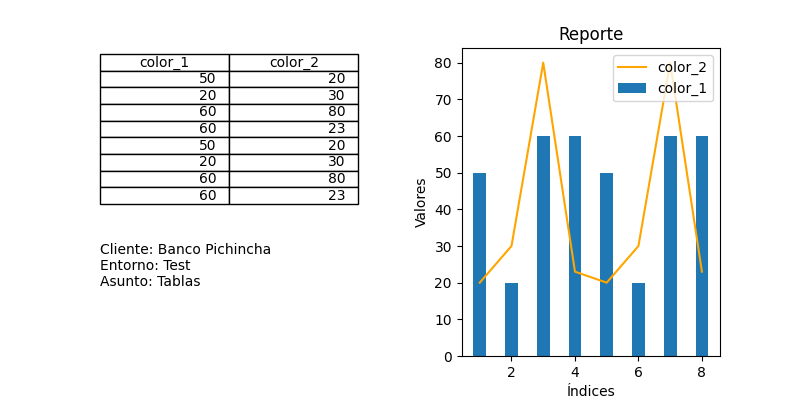
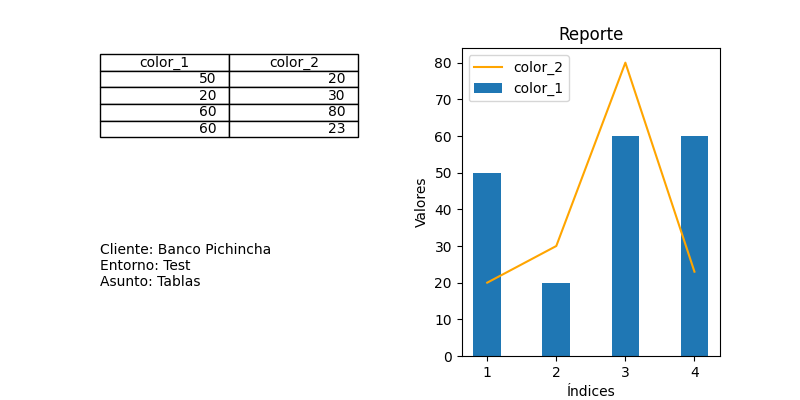
Proyecto finalizado sin estilos

Changed region(s): [[0.5938, 0.15, 0.9062, 0.96], [0.125, 0.33, 0.4688, 0.54], [0.8438, 0.93, 0.875, 0.96]]

diff --git a/templates/index.html b/templates/index.html
@@ -57,5 +57,18 @@
     <img src="/mi_grafico">
     {% endif %}
 </div>
+<br><br><br>
+
+    <form method="post" action="/enviar">
+        <label for="cliente">Cliente:</label><br>
+        <input type="text" id="cliente" name="cliente"><br>
+        <label for="entorno">Entorno:</label><br>
+        <input type="text" id="entorno" name="entorno"><br>
+        <label for="asunto">Asunto:</label><br>
+        <input type="text" id="asunto" name="asunto"><br><br>
+        <input type="submit" value="Enviar reporte a Telegram">
+    </form>
+
+
 </body>
 </html>

diff --git a/templates/confirmacion.html b/templates/confirmacion.html
@@ -1,0 +1,13 @@
+<!DOCTYPE html>
+<html>
+<head>
+    <title>Mensaje de exito</title>
+</head>
+<body>
+    <h1>El reporte se ha enviado exitosamente!</h1>
+    <form action="{{ url_for('index') }}" method="get">
+    <button type="submit">Ir a la página principal</button>
+</form>
+
+</body>
+</html>

diff --git a/main.py b/main.py
@@ -9,126 +9,6 @@ from flask import Flask, render_template, request, redirect, url_for, send_file
 app = Flask(__name__)
 
 
-def crerBase():
-
-
-    # Conecta a la base de datos (se creará automáticamente si no existe)
-    conn = sqlite3.connect("mi_base_de_datos.db")
-
-    # Crea un cursor para ejecutar las consultas
-    cursor = conn.cursor()
-
-    # Crea la tabla
-    cursor.execute("CREATE TABLE tabla_colores (id INTEGER PRIMARY KEY AUTOINCREMENT, color_1 INTEGER, color_2 INTEGER)")
-
-    # Agrega algunos datos a la tabla
-    cursor.execute("INSERT INTO tabla_colores (color_1, color_2) VALUES (50, 20)")
-    cursor.execute("INSERT INTO tabla_colores (color_1, color_2) VALUES (20, 30)")
-    cursor.execute("INSERT INTO tabla_colores (color_1, color_2) VALUES (60, 80)")
-    cursor.execute("INSERT INTO tabla_colores (color_1, color_2) VALUES (60, 23)")
-
-    # Guarda los cambios en la base de datos
-    conn.commit()
-
-    # Cierra el cursor y la conexión
-    cursor.close()
-    conn.close()
-
-def ver():
-    # Conecta a la base de datos
-    conn = sqlite3.connect("mi_base_de_datos.db")
-
-    # Crea un cursor para ejecutar la consulta
-    cursor = conn.cursor()
-
-    # Ejecuta la consulta y obtiene los resultados
-    cursor.execute("SELECT * FROM tabla_colores")
-    results = cursor.fetchall()
-
-    # Cierra el cursor y la conexión
-    cursor.close()
-    conn.close()
-
-    # Crea una lista de tuplas con los resultados
-    # Obtiene el nombre de la columna
-    nombre_columna_1 = cursor.description[0][0]
-    nombre_columna_2 = cursor.description[1][0]
-    columna_1 = [(row[0]) for row in results]
-    columna_2 = [(row[1]) for row in results]
-
-    cliente="Banco Pichincha"
-    entorno = "Test"
-    asunto = "Tablas"
-
-    # Grafica los datos
-
-    fig = plt.figure(figsize=(8,4))
-    fig.tight_layout()
-    ax1 = fig.add_subplot(1,2,2)
-    ax2 = fig.add_subplot(1,2,1)
-
-    ax1.bar(range(1, len(columna_1) + 1), columna_1, width=0.4, label=nombre_columna_1)
-    ax1.plot(range(1, len(columna_2) + 1), columna_2, color="orange", label=nombre_columna_2)
-
-    # Agrega etiquetas a los ejes y un título al gráfico
-
-    ax1.set_xlabel("Índices")
-    ax1.set_ylabel("Valores")
-    ax1.set_title("Reporte")
-
-    # Agrega una leyenda
-    ax1.legend()
-
-    # Configura el eje x para que solo muestre enteros
-    plt.xticks(range(1, len(columna_1) + 1))
-
-    # Crea una tabla con los datos de las columnas
-    ax2.table(cellText=results, colLabels=[nombre_columna_1, nombre_columna_2], loc='upper center')
-    ax2.axis('off')
-    ax2.axis('tight')
-    ax2.text(0, -0.03, "Cliente: "+str(cliente) + "\nEntorno: "+str(entorno)+"\nAsunto: "+str(asunto))
-
-
-    plt.subplots_adjust(wspace=0.4)
-
-    # Muestra el gráfico
-    plt.show()
-
-    # Elimina la imagen anterior si existe
-    if os.path.exists("images/mi_imagen.png"):
-        os.remove("images/mi_imagen.png")
-
-    # Guarda la figura en la carpeta "imágenes" con el nombre "mi_imagen.png"
-    fig.savefig("images/mi_imagen.png")
-
-
-
-def mandarTelegram():
-
-
-    # Tu token de bot
-    bot_token = "5818144839:AAFfOzq7Qo2ynP0XOnCqOOJQsfaeQqXwMLY"
-
-    # La ID del chat donde quieres enviar la imagen
-    chat_id = "-875581438"
-
-    # El nombre del archivo de la imagen que quieres enviar
-    image_file = "images/mi_imagen.png"
-
-    # Crea el URL para enviar la imagen
-    url = "https://api.telegram.org/bot{}/sendPhoto".format(bot_token)
-
-    # Sube el archivo de la imagen
-    files = {"photo": open(image_file, "rb")}
-    data = {"chat_id": chat_id}
-    response = requests.post(url, files=files, data=data)
-
-    # Verifica que el envío haya sido exitoso
-    if response.status_code != 200:
-        raise Exception("Error al enviar la imagen: {}".format(response.status_code))
-
-    print("Imagen enviada con éxito!")
-
 def graficar(columna_1, columna_2, nombre_columna_1, nombre_columna_2):
     # Grafica los datos
 
@@ -164,7 +44,6 @@ def graficar(columna_1, columna_2, nombre_columna_1, nombre_columna_2):
 
 @app.route('/')
 def index():
-    results = [(), (), ()]
     # Conecta a la base de datos
     conn = sqlite3.connect("mi_base_de_datos.db")
 
@@ -263,6 +142,100 @@ def borrar():
 
     # Redirige a la ruta "/"
     return redirect(url_for("index"))
+
+@app.route("/enviar",methods=["POST"])
+def enviar():
+    # Conecta a la base de datos
+    conn = sqlite3.connect("mi_base_de_datos.db")
+
+    # Crea un cursor para ejecutar la consulta
+    cursor = conn.cursor()
+
+    # Ejecuta la consulta y obtiene los resultados
+    cursor.execute("SELECT * FROM tabla_colores")
+    results = cursor.fetchall()
+
+    # Cierra el cursor y la conexión
+    cursor.close()
+    conn.close()
+
+    # Crea una lista de tuplas con los resultados
+    # Obtiene el nombre de la columna
+    nombre_columna_1 = cursor.description[1][0]
+    nombre_columna_2 = cursor.description[2][0]
+    columna_1 = [(row[1]) for row in results]
+    columna_2 = [(row[2]) for row in results]
+    cellText = tuple(zip(columna_1, columna_2))
+
+    cliente =  request.form["cliente"]
+    entorno =  request.form["entorno"]
+    asunto =  request.form["asunto"]
+
+    # Grafica los datos
+
+    fig = plt.figure(figsize=(8, 4))
+    fig.tight_layout()
+    ax1 = fig.add_subplot(1, 2, 2)
+    ax2 = fig.add_subplot(1, 2, 1)
+
+    ax1.bar(range(1, len(columna_1) + 1), columna_1, width=0.4, label=nombre_columna_1)
+    ax1.plot(range(1, len(columna_2) + 1), columna_2, color="orange", label=nombre_columna_2)
+
+    # Agrega etiquetas a los ejes y un título al gráfico
+
+    ax1.set_xlabel("Índices")
+    ax1.set_ylabel("Valores")
+    ax1.set_title("Reporte")
+
+    # Agrega una leyenda
+    ax1.legend()
+
+    # Configura el eje x para que solo muestre enteros
+    plt.xticks(range(1, len(columna_1) + 1))
+
+    # Crea una tabla con los datos de las columnas
+    ax2.table(cellText=cellText, colLabels=[nombre_columna_1, nombre_columna_2], loc='upper center')
+    ax2.axis('off')
+    ax2.axis('tight')
+    ax2.text(0, -0.03, "Cliente: " + str(cliente) + "\nEntorno: " + str(entorno) + "\nAsunto: " + str(asunto))
+
+    plt.subplots_adjust(wspace=0.4)
+
+    # Muestra el gráfico
+    #plt.show()
+
+    # Elimina la imagen anterior si existe
+    if os.path.exists("images/mi_imagen.png"):
+        os.remove("images/mi_imagen.png")
+
+    # Guarda la figura en la carpeta "imágenes" con el nombre "mi_imagen.png"
+    fig.savefig("images/mi_imagen.png")
+
+    # Tu token de bot
+    bot_token = "5818144839:AAFfOzq7Qo2ynP0XOnCqOOJQsfaeQqXwMLY"
+
+    # La ID del chat donde quieres enviar la imagen
+    chat_id = "-875581438"
+
+    # El nombre del archivo de la imagen que quieres enviar
+    image_file = "images/mi_imagen.png"
+
+    # Crea el URL para enviar la imagen
+    url = "https://api.telegram.org/bot{}/sendPhoto".format(bot_token)
+
+    # Sube el archivo de la imagen
+    files = {"photo": open(image_file, "rb")}
+    data = {"chat_id": chat_id}
+    response = requests.post(url, files=files, data=data)
+
+    # Verifica que el envío haya sido exitoso
+    if response.status_code != 200:
+        raise Exception("Error al enviar la imagen: {}".format(response.status_code))
+        return "Error al enviar la imagen"
+
+    print("Imagen enviada con éxito!")
+
+    return render_template('confirmacion.html')
 
 if __name__ == '__main__':
     #crerBase()
